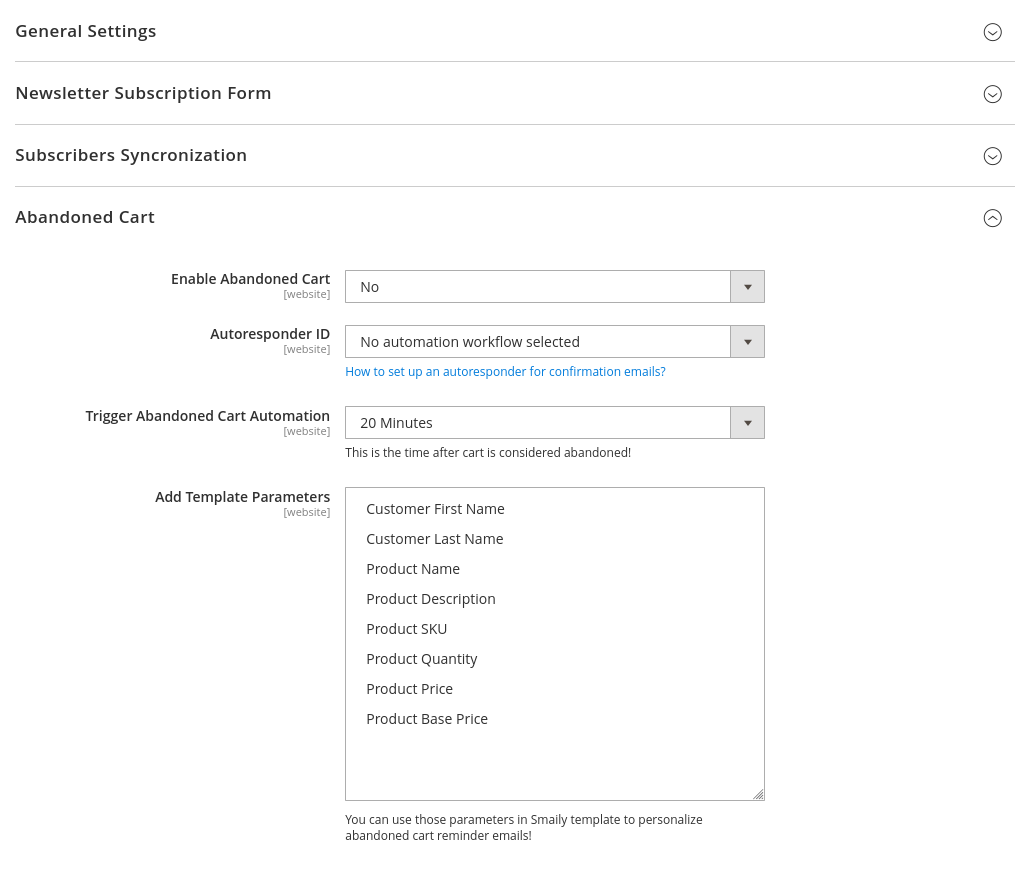
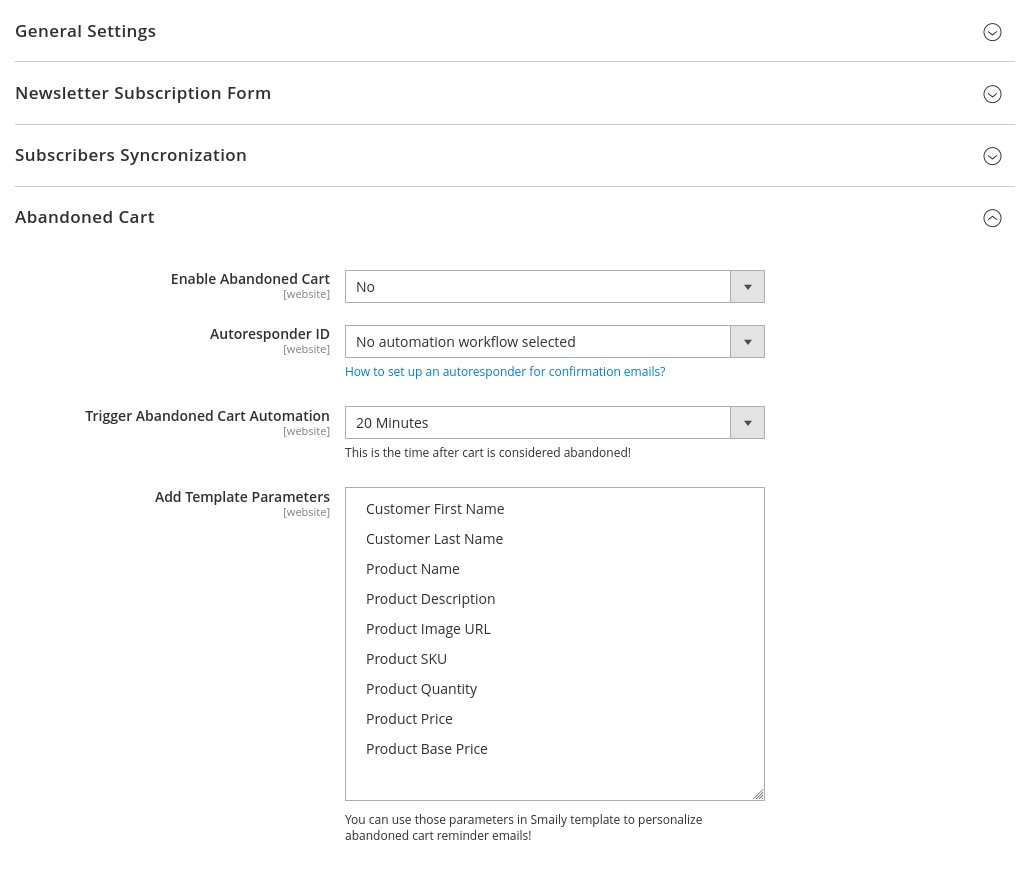
Checklist changes for release 2.5.0

diff --git a/README.md b/README.md
@@ -106,6 +106,8 @@ Up to 10 products can be received in Smaily templating engine. You can refrence 
 
 - Product description: `{{ product_description_[1-10] }}`;
 
+- Product image URL: `{{ product_image_url_[1-10] }}`;
+
 - Product SKU: `{{ product_sku_[1-10] }}`;
 
 - Product quantity: `{{ product_quantity_[1-10] }}`;

diff --git a/CHANGELOG.md b/CHANGELOG.md
@@ -1,6 +1,11 @@
 # Changelog
 
 
+### 2.5.0
+
+- Add product image URL to abandoned cart data payload [[#88](https://github.com/sendsmaily/smaily-magento-extension/pull/88)]
+
+
 ### 2.4.0
 
 - Include more context in CRON job logs [[#82](https://github.com/sendsmaily/smaily-magento-extension/pull/82)]
